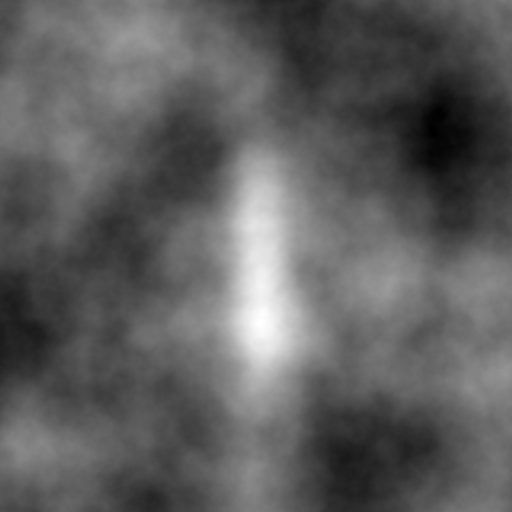
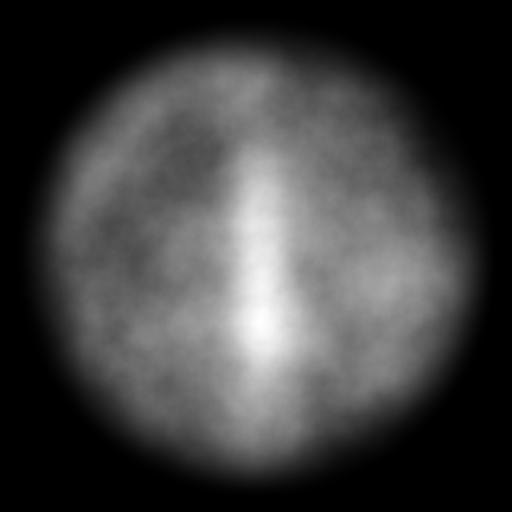
feat(map): MAP-2 L3 — coastline (landmass falloff + sea level)
The map now actually looks like a map. A spec-driven landmass falloff in L1
(island name/low-tier/enclosed-sea -> radial taper to sea; otherwise the
sea-positioned edges are lowered) gives real coasts -- and makes L2 rivers drain
into the sea instead of an arbitrary canvas edge. L3 Coastline: sea-level land/sea
mask + a multi-source-BFS distance-to-sea field (feeds L4 biome) + coast-cell
detection. New CLI: --map-dump-coast (tan land, depth-shaded blue sea, dark coast).

Pure + deterministic. The falloff also regenerated the heightmap + river proofs
(now island-shaped). Proof: byte-stable corpus/images/map/island-coast.png -- a
recognizable irregular island. corpus/map.sh checks all three layer dumps. 1351
lib tests (+3); clippy clean.

Deferred: rstar nearest-coast index + marching-squares coastline polylines (L5 /
render). Next: L4 biome.

diff --git a/src/map/coastline.rs b/src/map/coastline.rs
@@ -1,0 +1,173 @@
+//! MAP-2 **L3** — coastline. A sea level splits the (landmass-shaped) heightmap
+//! into land/sea; the land/sea mask + a distance-to-sea field feed biome (L4) and
+//! the coast-relative anchors (L5). Pure, deterministic over the heightmap.
+//!
+//! Proper marching-squares coastline *polylines* (for a clean drawn coast) are a
+//! render-time refinement; L3 ships the mask + coast cells the engine needs.
+
+use anyhow::{Context, Result};
+use image::{Rgb, RgbImage};
+use std::collections::VecDeque;
+use std::path::Path;
+
+use super::engine::HeightField;
+
+/// Elevation below this (on the normalized, landmass-shaped heightmap) is sea.
+pub const DEFAULT_SEA_LEVEL: f32 = 0.22;
+
+#[derive(Debug, Clone)]
+pub struct Coastline {
+    pub width: u32,
+    pub height: u32,
+    pub sea_level: f32,
+    /// `true` = sea cell.
+    pub sea: Vec<bool>,
+    /// Distance from each cell to the nearest sea, normalized to [0,1] (0 at the
+    /// coast). Feeds L4 biome (coastal vs interior).
+    pub coast_dist: Vec<f32>,
+}
+
+impl Coastline {
+    pub fn compute(hf: &HeightField, sea_level: f32) -> Coastline {
+        let (w, h) = (hf.width, hf.height);
+        let sea: Vec<bool> = hf.data.iter().map(|&e| e < sea_level).collect();
+        let coast_dist = distance_to_sea(&sea, w, h);
+        Coastline { width: w, height: h, sea_level, sea, coast_dist }
+    }
+
+    /// A land cell touching the sea (8-connected) — the coastline.
+    pub fn is_coast(&self, x: u32, y: u32) -> bool {
+        let i = (y * self.width + x) as usize;
+        if self.sea[i] {
+            return false;
+        }
+        for (dx, dy) in NEIGHBORS {
+            let nx = x as i32 + dx;
+            let ny = y as i32 + dy;
+            if nx < 0 || ny < 0 || nx >= self.width as i32 || ny >= self.height as i32 {
+                continue;
+            }
+            if self.sea[(ny as u32 * self.width + nx as u32) as usize] {
+                return true;
+            }
+        }
+        false
+    }
+
+    /// Land area as a fraction of the canvas (sanity / topology hint).
+    pub fn land_fraction(&self) -> f32 {
+        let land = self.sea.iter().filter(|&&s| !s).count();
+        land as f32 / self.sea.len().max(1) as f32
+    }
+
+    /// Land (grayscale by elevation) + sea (blue, darker where deeper) + a dark
+    /// coastline. Deterministic encode.
+    pub fn render_overlay(&self, hf: &HeightField, path: &Path) -> Result<()> {
+        let (w, h) = (self.width, self.height);
+        let mut img = RgbImage::new(w, h);
+        for y in 0..h {
+            for x in 0..w {
+                let i = (y * w + x) as usize;
+                let px = if self.is_coast(x, y) {
+                    Rgb([0x4a, 0x35, 0x1c]) // dark coast line
+                } else if self.sea[i] {
+                    // deeper sea → darker blue
+                    let depth = ((self.sea_level - hf.data[i]) / self.sea_level.max(1e-3)).clamp(0.0, 1.0);
+                    let shade = 1.0 - 0.5 * depth;
+                    Rgb([(0x3c as f32 * shade) as u8, (0x8d as f32 * shade) as u8, (0xc8 as f32 * shade) as u8])
+                } else {
+                    // land: light terrain by elevation
+                    let g = (120.0 + hf.data[i] * 135.0).clamp(0.0, 255.0) as u8;
+                    Rgb([g, (g as f32 * 0.96) as u8, (g as f32 * 0.82) as u8])
+                };
+                img.put_pixel(x, y, px);
+            }
+        }
+        if let Some(parent) = path.parent() {
+            if !parent.as_os_str().is_empty() {
+                std::fs::create_dir_all(parent)?;
+            }
+        }
+        img.save(path).with_context(|| format!("writing coastline {}", path.display()))
+    }
+}
+
+const NEIGHBORS: [(i32, i32); 8] = [(1, 0), (1, 1), (0, 1), (-1, 1), (-1, 0), (-1, -1), (0, -1), (1, -1)];
+
+/// Multi-source BFS distance from every cell to the nearest sea cell, normalized.
+fn distance_to_sea(sea: &[bool], w: u32, h: u32) -> Vec<f32> {
+    let n = (w * h) as usize;
+    let mut dist = vec![u32::MAX; n];
+    let mut q: VecDeque<usize> = VecDeque::new();
+    for (i, &s) in sea.iter().enumerate() {
+        if s {
+            dist[i] = 0;
+            q.push_back(i);
+        }
+    }
+    while let Some(i) = q.pop_front() {
+        let (x, y) = ((i as u32) % w, (i as u32) / w);
+        for (dx, dy) in NEIGHBORS {
+            let nx = x as i32 + dx;
+            let ny = y as i32 + dy;
+            if nx < 0 || ny < 0 || nx >= w as i32 || ny >= h as i32 {
+                continue;
+            }
+            let j = (ny as u32 * w + nx as u32) as usize;
+            if dist[j] == u32::MAX {
+                dist[j] = dist[i] + 1;
+                q.push_back(j);
+            }
+        }
+    }
+    let max = dist.iter().filter(|&&d| d != u32::MAX).copied().max().unwrap_or(1).max(1) as f32;
+    dist.iter().map(|&d| if d == u32::MAX { 1.0 } else { d as f32 / max }).collect()
+}
+
+#[cfg(test)]
+mod tests {
+    use super::*;
+    use crate::map::engine::GeoCanvas;
+    use crate::map::spec::MapSpec;
+
+    fn island_coast() -> (HeightField, Coastline) {
+        // A bare island (tier 1 → radial landmass falloff) gives a ring of sea.
+        let spec = MapSpec::minimal("The Isle", 2, 2, 1);
+        let c = GeoCanvas::from_spec(&spec, 42);
+        let hf = HeightField::generate(&spec, &c);
+        let cl = Coastline::compute(&hf, DEFAULT_SEA_LEVEL);
+        (hf, cl)
+    }
+
+    #[test]
+    fn island_has_sea_and_land() {
+        let (_, cl) = island_coast();
+        let lf = cl.land_fraction();
+        assert!(lf > 0.1 && lf < 0.95, "island should be part land, part sea: {lf}");
+        // corners are offshore.
+        let (w, h) = (cl.width, cl.height);
+        assert!(cl.sea[0], "top-left corner is sea");
+        assert!(cl.sea[((h - 1) * w + (w - 1)) as usize], "bottom-right corner is sea");
+        // center is land.
+        assert!(!cl.sea[((h / 2) * w + w / 2) as usize], "center is land");
+    }
+
+    #[test]
+    fn coast_distance_zero_at_sea_rising_inland() {
+        let (_, cl) = island_coast();
+        let (w, h) = (cl.width, cl.height);
+        assert_eq!(cl.coast_dist[0], 0.0, "sea cell has distance 0");
+        // center is the farthest-inland → larger coast distance than a near-edge cell.
+        let center = cl.coast_dist[((h / 2) * w + w / 2) as usize];
+        let near_edge = cl.coast_dist[((h / 2) * w + w / 8) as usize];
+        assert!(center > near_edge, "interior is farther from the sea");
+    }
+
+    #[test]
+    fn coastline_is_deterministic() {
+        let (_, a) = island_coast();
+        let (_, b) = island_coast();
+        assert_eq!(a.sea, b.sea);
+        assert_eq!(a.coast_dist, b.coast_dist);
+    }
+}

diff --git a/src/map/engine.rs b/src/map/engine.rs
@@ -82,6 +82,10 @@ impl HeightField {
             }
         }
 
+        // Shape the landmass so the map actually has coasts (island radial taper /
+        // sea-positioned edges) — this also makes rivers drain into the sea.
+        apply_landmass_shape(&mut data, spec, w, h);
+
         normalize(&mut data);
         HeightField { width: w, height: h, data }
     }
@@ -177,6 +181,67 @@ fn add_ridge(data: &mut [f32], w: u32, h: u32, cx: f32, cy: f32, orientation: &s
                 continue;
             }
             data[(y * w + x) as usize] += amp * (-(perp * perp) / two_sp2 - (along * along) / two_sa2).exp();
+        }
+    }
+}
+
+fn idx(x: u32, y: u32, w: u32) -> usize {
+    (y * w + x) as usize
+}
+
+/// Smoothstep: 0 below `e0`, 1 above `e1`, smooth between.
+fn smoothstep(e0: f32, e1: f32, x: f32) -> f32 {
+    let t = ((x - e0) / (e1 - e0)).clamp(0.0, 1.0);
+    t * t * (3.0 - 2.0 * t)
+}
+
+/// Is this map island-like (terrain surrounded by water)?
+fn is_island(spec: &MapSpec) -> bool {
+    let n = spec.name.to_ascii_lowercase();
+    spec.scale_tier <= 1
+        || n.contains("isle")
+        || n.contains("island")
+        || spec.water.seas.iter().any(|s| s.enclosed)
+}
+
+/// Multiply the elevation by a landmass mask so the map has coasts: island maps
+/// taper radially to sea; otherwise the sea-positioned edges are lowered.
+fn apply_landmass_shape(data: &mut [f32], spec: &MapSpec, w: u32, h: u32) {
+    if is_island(spec) {
+        let (cx, cy) = (w as f32 * 0.5, h as f32 * 0.5);
+        let land_r = (cx * cx + cy * cy).sqrt() * 0.6; // land reaches ~60% toward the corners
+        for y in 0..h {
+            for x in 0..w {
+                let dx = x as f32 - cx;
+                let dy = y as f32 - cy;
+                let r = (dx * dx + dy * dy).sqrt() / land_r; // 0 center … 1 at the coast
+                let mask = 1.0 - smoothstep(0.78, 1.12, r); // 1 inland, → 0 offshore
+                data[idx(x, y, w)] *= mask;
+            }
+        }
+    } else {
+        for sea in &spec.water.seas {
+            lower_sea_edge(data, w, h, &sea.position);
+        }
+    }
+}
+
+/// Lower the named edge toward sea (a smooth ramp from the edge inward).
+fn lower_sea_edge(data: &mut [f32], w: u32, h: u32, position: &str) {
+    let p = position.to_ascii_lowercase();
+    let depth = 0.22; // ramp depth as a fraction of the extent
+    for y in 0..h {
+        for x in 0..w {
+            let (fx, fy) = (x as f32 / w.max(1) as f32, y as f32 / h.max(1) as f32);
+            // distance into the map from the named edge, 0 at edge → 1 deep inland.
+            let d = match () {
+                _ if p.contains("west") => fx / depth,
+                _ if p.contains("east") => (1.0 - fx) / depth,
+                _ if p.contains("north") => fy / depth,
+                _ if p.contains("south") => (1.0 - fy) / depth,
+                _ => continue,
+            };
+            data[idx(x, y, w)] *= smoothstep(0.0, 1.0, d);
         }
     }
 }

diff --git a/src/cli/map.rs b/src/cli/map.rs
@@ -56,6 +56,10 @@ pub struct MapArgs {
     /// MAP-2: write the river network over the terrain (L2 hydraulics).
     #[arg(long = "map-dump-rivers", value_name = "PATH")]
     pub dump_rivers: Option<PathBuf>,
+
+    /// MAP-2: write land/sea + coastline (L3).
+    #[arg(long = "map-dump-coast", value_name = "PATH")]
+    pub dump_coast: Option<PathBuf>,
 }
 
 pub async fn run(args: MapArgs) -> Result<()> {
@@ -100,7 +104,7 @@ pub async fn run(args: MapArgs) -> Result<()> {
     let mut did_dump = false;
 
     // MAP-2 geometry dumps (share the canvas + heightfield).
-    if args.dump_heightmap.is_some() || args.dump_rivers.is_some() {
+    if args.dump_heightmap.is_some() || args.dump_rivers.is_some() || args.dump_coast.is_some() {
         let canvas = map::engine::GeoCanvas::from_spec(&spec, args.seed);
         let hf = map::engine::HeightField::generate(&spec, &canvas);
         if let Some(p) = &args.dump_heightmap {
@@ -123,6 +127,18 @@ pub async fn run(args: MapArgs) -> Result<()> {
                 style("✓").green(),
                 p.display(),
                 hydro.rivers.len(),
+                args.seed
+            );
+            did_dump = true;
+        }
+        if let Some(p) = &args.dump_coast {
+            let coast = map::coastline::Coastline::compute(&hf, map::coastline::DEFAULT_SEA_LEVEL);
+            coast.render_overlay(&hf, p)?;
+            println!(
+                "{}  coastline → {}  ({:.0}% land, seed {})",
+                style("✓").green(),
+                p.display(),
+                coast.land_fraction() * 100.0,
                 args.seed
             );
             did_dump = true;

diff --git a/src/map/mod.rs b/src/map/mod.rs
@@ -3,6 +3,7 @@
 //! (MAP-3/linework, MAP-6/tiled-SD) follow. See `Documentation/RFC_MAP_COMPILE_PLAN.md`.
 
 pub mod cache;
+pub mod coastline;
 pub mod engine;
 pub mod hydrology;
 pub mod parser;

diff --git a/corpus/COVERAGE.md b/corpus/COVERAGE.md
@@ -59,7 +59,7 @@ committed under `images/`.
 | Bund scripting | `script.bund` (`script.sh`) | ✅ | ✅ | `plakat run` — load → generate → upscale → save handle-reuse chain (SD 1.5) |
 | Tiled hi-res scripting | `tiled_script.bund` (`tiled_script.sh`) | ✅ | ✅ | **v1.0**. `plakat.tiled.enable` routes the SD-family `plakat.generate` through `generate_tiled` — SDXL at 1280² from 768 tiles (above native), the scripting counterpart of `--tiled`. **Base-anchored** (generate a coherent base at tile_size² → upscale latent → tiled img2img REFINE at 0.55) to avoid MultiDiffusion global incoherence; per-tile `synchronize` bounds Metal memory to one tile. Verified: one coherent valley (single river/range/horizon), no seams. |
 | Layered scenes (compose) | `compose.sh` + `compose_scene.hjson` | ✅ | ✅ | **v1.0 — Part 1 scene composition.** `plakat compose <scene.hjson>` stacks image layers (z-order) onto a canvas: a background fill + RGBA cut-outs placed by 9-grid/`x,y`, scaled (fraction of canvas), alpha-composited with opacity. **No GPU** — composes committed assets (valley + cottage + pine + balloon). |
-| Map — spec + parser (MAP-1) | `map.sh` + `map/island.spec.json` | ✅ | ⬜ | **v1.4 — Track M, MAP-1.** `plakat map "<prose>"` → **MapSpec v2** JSON via the LLM (`prompt::complete`, the `--enhance` stack): typed `Anchor` spatial relations (`mouth_of`, `bearing{constraint}`, `pass_between`, `natural_harbor`, …) instead of pixels; terrain / water / regions / landmarks / infrastructure. `--map-tiles CxR` / `--map-scale <alias>` scale control; `--map-spec` (load, skip LLM), `--map-dump-spec`, `--map-cache`; 3-stage parse robustness (never aborts). **Verified deterministic**: committed `island.spec.json` loads (no LLM) + round-trips **byte-stable**; `--map-tiles` overrides grid. **v1.4 MAP-2 (L0+L1):** `--map-dump-heightmap` — `GeoCanvas` + a tectonic `HeightField` (`noise` fBm base + a smooth gaussian ridge per mountain range at its anchor). Proof: **byte-stable** `corpus/images/map/island-heightmap.png` (Emberspine spine over fBm), re-dumped + `cmp`'d. **L2 hydraulics:** `--map-dump-rivers` — priority-flood fill (every cell drains to the boundary) → D8 flow → accumulation → river tracing; proof: byte-stable `island-rivers.png` (dendritic network flowing downhill to the edges). Coastline/biome/resolver/infra = L3–L7 (⬜); render = MAP-3+ (⬜). |
+| Map — spec + parser (MAP-1) | `map.sh` + `map/island.spec.json` | ✅ | ⬜ | **v1.4 — Track M, MAP-1.** `plakat map "<prose>"` → **MapSpec v2** JSON via the LLM (`prompt::complete`, the `--enhance` stack): typed `Anchor` spatial relations (`mouth_of`, `bearing{constraint}`, `pass_between`, `natural_harbor`, …) instead of pixels; terrain / water / regions / landmarks / infrastructure. `--map-tiles CxR` / `--map-scale <alias>` scale control; `--map-spec` (load, skip LLM), `--map-dump-spec`, `--map-cache`; 3-stage parse robustness (never aborts). **Verified deterministic**: committed `island.spec.json` loads (no LLM) + round-trips **byte-stable**; `--map-tiles` overrides grid. **v1.4 MAP-2 (L0+L1):** `--map-dump-heightmap` — `GeoCanvas` + a tectonic `HeightField` (`noise` fBm base + a smooth gaussian ridge per mountain range at its anchor). Proof: **byte-stable** `corpus/images/map/island-heightmap.png` (Emberspine spine over fBm), re-dumped + `cmp`'d. **L2 hydraulics:** `--map-dump-rivers` — priority-flood fill (every cell drains to the boundary) → D8 flow → accumulation → river tracing; proof: byte-stable `island-rivers.png` (dendritic network flowing downhill to the edges). **L3 coastline:** `--map-dump-coast` — a spec-driven landmass falloff (island radial / continental sea-edges) + sea-level land/sea mask + distance-to-sea; proof: byte-stable `island-coast.png` (a recognizable island — tan land, depth-shaded sea, dark coast). Biome/resolver/infra = L4–L7 (⬜); render = MAP-3+ (⬜). |
 | Compile (prose → scenario) | `compile.sh` + `compile/basic.txt` | ✅ | ✅ | **v1.2 — Track C, COMPILE-1.** `plakat compile prompts.txt` → scenario HJSON: blank-line blocks (free text + `key: value` commands) → one task per block; global→scene inheritance with per-command merge (concatenate / accumulate / last-wins); model-family-aware prompt profiles (SD15/SDXL/Flux); auto-negatives from the enhanced positive; `translate:` (LLM pre-pass) + `persona:` (fragments from `~/.config/plakat/personas/`); `--lint` / `--dry-run`; two-namespace `--compile-cache` (+ `--compile-cache-clear`); `--diff` (per-task add/change/remove) + `--decompile` (scenario→prompts.txt); `scenario -` stdin pipe. **Verified deterministic**: `--no-enhance --no-negative` → **byte-stable** `basic.hjson` (committed), validated via `scenario --dry-run`, pipe, a no-op `--diff` guard, and a `--decompile` round-trip. **v1.3 (COMPILE-2):** optional **Tera template pre-pass** (`--features templates`) — `.tera`/`.j2` inputs render to a `prompts.txt` first, with `--var`/`--vars <json\|toml>`/`--vars-env` context, custom filters/functions (`scene_name`, `prompt_join`, `model_family`, `include_raw`, …), and `--dump-rendered[-only]`. Proof: `series.tera` + `series.json` → **byte-stable** `series.rendered.txt` → scenario-validated. No GPU / network / key. LLM path reuses the `--enhance` provider stack (`prompt::complete`). |
 | Compose inline layers (generate/matte) | `compose_generate.sh` + `compose_generate_scene.hjson` | ✅ | ✅ | **v1.1.** A compose layer's pixels now come from `load:` (existing image), `matte:` (U2Net cutout on the fly), or `generate:` (t2i render inline; optional `model`/`seed`/`steps`/`gen_size`). **Verified:** generated beach backdrop + matted astronaut composited with no pre-made assets (`beach-generate-matte.png`). Light (sd15 512² + U2Net) — runs on CPU. |
 | Gallery generator | `plakat gallery` | ✅ | n/a | builds this corpus's index |

diff --git a/Documentation/ROADMAP_1.4.0.md b/Documentation/ROADMAP_1.4.0.md
@@ -49,9 +49,16 @@ Status: `[ ]` open · `[x]` done · `[~]` in progress.
       dep — `ndarray` wasn't needed). *Refinements deferred:* flat-resolution (a few
       parallel threads remain in flats), the breach algorithm (carve vs fill), delta
       detection, named-river ↔ traced-channel matching.
-- [ ] **L3 coastline** (marching squares + `rstar` index) + **L4 biome** + **L5
-      landmark resolver** (topological sort over the anchor graph; all anchor types
-      resolve or error on a cycle).
+- [x] **L3 coastline — DONE.** A spec-driven **landmass falloff** in L1 (island →
+      radial taper to sea; continental → sea-positioned edges lowered) gives the map
+      real coasts and makes rivers drain into the sea. `Coastline`: sea-level land/sea
+      mask + a multi-source-BFS distance-to-sea field (feeds L4) + coast-cell detection.
+      `--map-dump-coast` (tan land, depth-shaded blue sea, dark coastline). **Gate MET:**
+      byte-stable `corpus/images/map/island-coast.png` — a recognizable island; 3 tests
+      (sea+land, coast distance, determinism). *`rstar` nearest-coast index + marching-
+      squares polylines deferred to L5/render.*
+- [ ] **L4 biome** + **L5 landmark resolver** (topological sort over the anchor
+      graph; all anchor types resolve or error on a cycle).
 - [ ] **L6 infrastructure** (`petgraph` Dijkstra roads) + **L7 conditioning assembly**
       (heightmap/biome/feature-overlay full-canvas + per-tile crops).
 - **Gate:** committed `island.spec.json` → byte-stable `--map-dump-{heightmap,biome,
